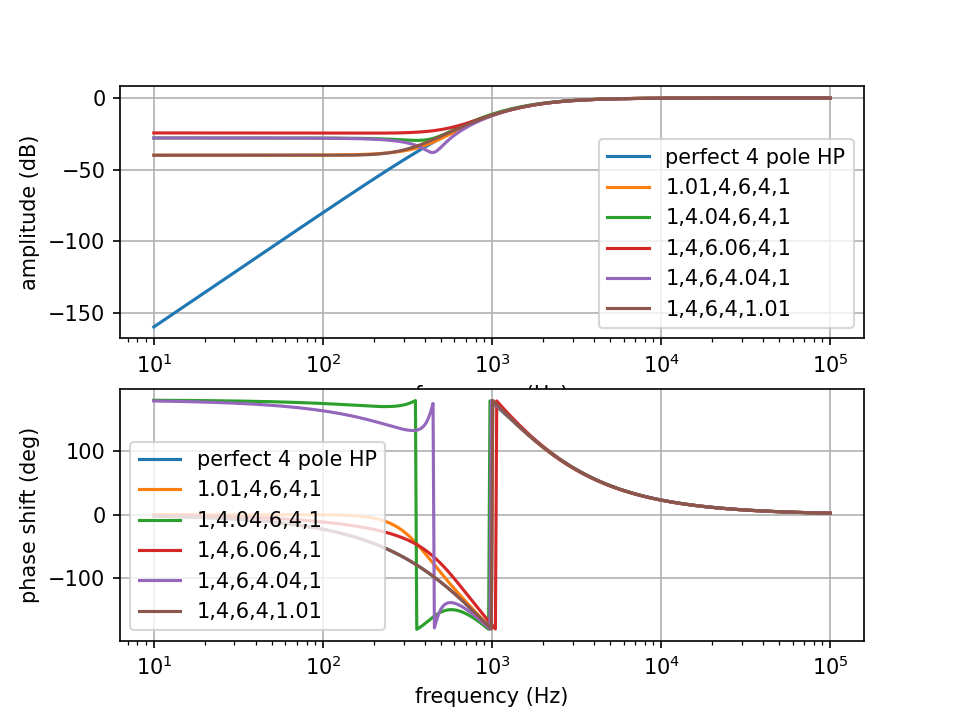
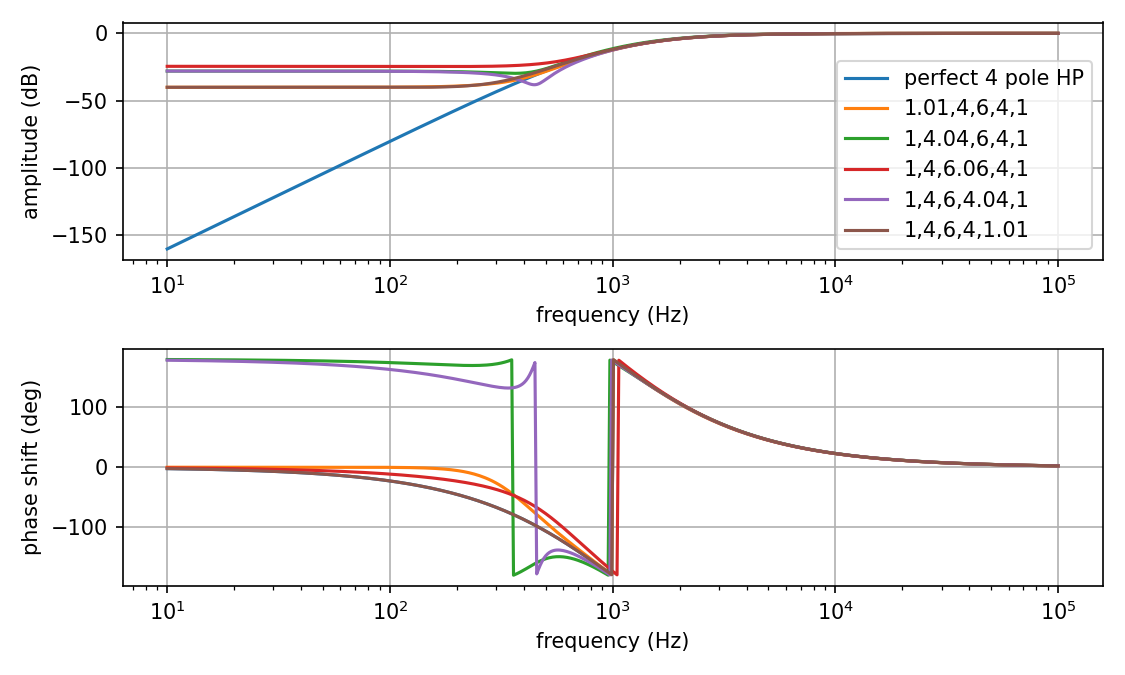
Catalog; figure sizes

diff --git a/Software/polemix.py b/Software/polemix.py
@@ -52,13 +52,14 @@ def usage():
     print ('Default is -b')
     
 def main():
-#    fig = plt.figure()
-#    fig, ax_lst = plt.subplots(2, 1)  # a figure with a 1x2 grid of Axes
+#    plt.rcParams["figure.figsize"] = [12, 8]  # plot size in inches
+    plt.rcParams["figure.figsize"] = [7.5, 4.5]  # plot size in inches
+    plt.rcParams["figure.autolayout"] = True
 
     f = np.logspace(1,5,num=500) # frequencies from 10**1 to 10**5
 
     corner = 1000
-    page = [[[], [], [], 'b', '']] # each entry is list of coefs, list of labels, list of polemix results, plots, path
+    page = [[[], [], [], [], 'b', '']] # each entry is list of coefs, list of labels, list of corners, list of polemix results, plots, path
     for a in argv[1:]:
         if a[0] == '-':
             if len(a) < 2:
@@ -70,7 +71,7 @@ def main():
                     return
                 corner = float(a[3:])
             if a[1] == 'b' or a[1] == 'a' or a[1] == 'p':
-                page.append([[], [], [], 'b', ''])
+                page.append([[], [], [], [], 'b', ''])
                 # Start the next figure
                 path = ""
                 if len(a) > 2:
@@ -79,8 +80,8 @@ def main():
                     else:
                         usage()
                         return
-                page[-1][3] = a[1]
-                page[-1][4] = path
+                page[-1][4] = a[1]
+                page[-1][5] = path
             continue
 
         res = re.search ('^\[(.*?)\] *(\S.*)$', a)
@@ -99,17 +100,18 @@ def main():
 
         page[-1][0].append([float (i) for i in re.split (", *", g1)])
         page[-1][1].append(g2)
-        page[-1][2].append(polemix (f, corner, page[-1][0][-1]))
+        page[-1][2].append(corner)
+        page[-1][3].append(polemix (f, corner, page[-1][0][-1]))
         
     for j in range (len(page)):
         if len(page[j][0]) == 0:
             continue
 
-        if page[j][3] == 'b':
+        if page[j][4] == 'b':
             plt.subplot(211)
-        if page[j][3] == 'a' or page[j][3] == 'b':
-            for i in range(len(page[j][2])):
-                plt.plot(f, 20*np.log10(abs(page[j][2][i])), label=page[j][1][i])
+        if page[j][4] == 'a' or page[j][4] == 'b':
+            for i in range(len(page[j][3])):
+                plt.plot(f, 20*np.log10(abs(page[j][3][i])), label=page[j][1][i])
             plt.xscale('log')
 
             plt.xlabel('frequency (Hz)')
@@ -117,19 +119,20 @@ def main():
             plt.grid(True)
             plt.legend()
 
-        if page[j][3] == 'b':
+        if page[j][4] == 'b':
             plt.subplot(212)
-        if page[j][3] == 'p' or page[j][3] == 'b':
-            for i in range(len(page[j][2])):
-                plt.plot(f, 180./np.pi*np.angle(page[j][2][i]), label=page[j][1][i])
+        if page[j][4] == 'p' or page[j][4] == 'b':
+            for i in range(len(page[j][3])):
+                plt.plot(f, 180./np.pi*np.angle(page[j][3][i]), label=page[j][1][i])
             plt.xscale('log')
 
             plt.xlabel('frequency (Hz)')
             plt.ylabel('phase shift (deg)')
             plt.grid(True)
-            plt.legend()
+            if page[j][4] == 'p':
+                plt.legend()
 
-        if page[j][4] != "":
-            plt.savefig(page[j][4], dpi=150)
+        if page[j][5] != "":
+            plt.savefig(page[j][5], dpi=150)
         plt.show()
 main()

diff --git a/Docs/catalog.md b/Docs/catalog.md
@@ -1,0 +1,62 @@
+# Catalog
+
+Coefficients and names from [https://expeditionelectronics.com/Diy/Polemixing](https://expeditionelectronics.com/Diy/Polemixing)
+
+* [0, 1, 0, 0, 0] LP1
+* [0, 0, 1, 0, 0] LP2
+* [0, 0, 0, 1, 0] LP3
+* [0, 0, 0, 0, 1] LP4
+* [0, 0, 0, 3, 3] HP1 + LP3
+* [0, 0, 3, 3, 0] HP1 + LP2
+* [0, 2, 2, 0, 0] BP2
+* [0, 0, 4, 8, 4] BP4
+* [0, 3, 9, 9, 3] HP3 + LP1
+* [0, 3, 6, 3, 0] HP2 + LP1
+* [0, 3, 6, 4, 1] BP Alt.
+* [1, 1, 0, 0, 0] HP1
+* [1, 2, 1, 0, 0] HP2
+* [1, 3, 3, 1, 0] HP3
+* [1, 4, 6, 4, 1] HP4
+* [1, 2, 2, 0, 0] Notch
+* [.5, 1, 2.5, 0, 0] Res Before Notch
+* [1.5, 3, 2, 0, 0] Res After Notch
+* [1, 2, 2, 2, 2] Notch B
+* [1, 3, 6, 4, 1] Notch C
+* [0, 1, 2, 2, 0] LP1 + Notch A
+* [0, 4, 8, 5, 0] LP1 + Notch B (octave down)
+* [0, 3, 6, 4, 0] LP1 + Notch C
+* [0, 0, 1, 2, 2] LP2 + Notch A
+* [0, 0, 4, 8, 5] LP2 + Notch B (octave down)
+* [0, 0, 3, 6, 4] LP2 + Notch C
+* [0, 0, .3, .6, 1.5] LP2 + Notch D
+* [0, 2, 4, 3, 0] LP1 Notch B
+* [0, 3, 9, 10, 4] BP Notch Offset Left
+* [0, 4, 12, 16, 8] BP Notch
+* [0, 1, 3, 6, 4] BP Notch Offset Right
+* [0, 1, 3, 7, 5] BP Notch Octave Up
+* [1, 3, 4, 2, 0] HP + Notch A
+* [1, 3, 6, 4, 0] HP + Notch B
+* [1, 4, 7, 6, 2] HP2 + Notch A
+* [1, 4, 8, 8, 3] HP2 + Notch B
+* [1, 4, 9, 10, 4] HP2 + Notch C
+* [1, 4, 10, 12, 5] HP2 + Notch D
+* [1, 4, 10, 12, 6] Double Notch A (almost Octaves)
+* [1, 4, 10.25, 12.5, 6.25] Double Notch Octaves
+* [1, 4, 11, 14, 7] Double Notch B
+* [1, 4, 12, 16, 8] Double Notch C (Dixon)
+* [1, 4, 14, 20, 10] Double Notch D
+* [1, 4, 15, 22, 11] Double Notch (approx. 3rd Harmonic)
+* [.1, .6, 1.1, 2.8, 3.2] 20db LP shelf
+
+
+![catalog01](../Images/catalog01.png)
+![catalog02](../Images/catalog02.png)
+![catalog03](../Images/catalog03.png)
+![catalog04](../Images/catalog04.png)
+![catalog05](../Images/catalog05.png)
+![catalog06](../Images/catalog06.png)
+![catalog07](../Images/catalog07.png)
+![catalog08](../Images/catalog08.png)
+![catalog09](../Images/catalog09.png)
+![catalog10](../Images/catalog10.png)
+![catalog11](../Images/catalog11.png)

diff --git a/README.md b/README.md
@@ -39,6 +39,8 @@ ED's mixers have been re-ordered, the resistors in the BP mixers have been reduc
 
 To accommodate other builders with other preferences (or future me with other preferences), in the last two filters enough resistor (or jumper) footprints have been provided to build almost any mixer allowing whatever filter responses you want. Each of the LP1, LP2, LP3, and LP4 signals has two footprints in series. For example, to re-create ED's seventh filter, [0, 1, 3, 6, 4]: Omit the R<sub>IN</sub> resistor, use 30k and a wire jumper for the two R<sub>LP1</sub> resistors, 10k+jumper for R<sub>LP2</sub>, 2k+3K for R<sub>LP3</sub>, and 7.5k+jumper for R<sub>LP4</sub>. To build the filters shown in the schematic, follow the silkscreen: Use wire jumpers for the jumper footprints and leave the DNF footprints empty.
 
+A catalog of 40+ filters is in [Docs/catalog.md](Docs/catalog.md).
+
 ### Expansion
 
 There is an expansion header on the PCB. This could be used to mount a daughterboard giving more mixes. Or it could be used for a cable connection to an expansion module, which could e.g. provide user-changeable mixes (5 rotary switches?) or a microcontroller-based variable mixer, potentially even with CV input to switch mixes. This repo includes a design for a daughterboard providing four additional builder-defined mixes. As with filters 7 and 8 on the main module, there are two footprints for each of the LP1, LP2, LP3, and LP4 signals and you can populate both with resistors, use one resistor and one jumper, or omit both to get the mixes you desire.
